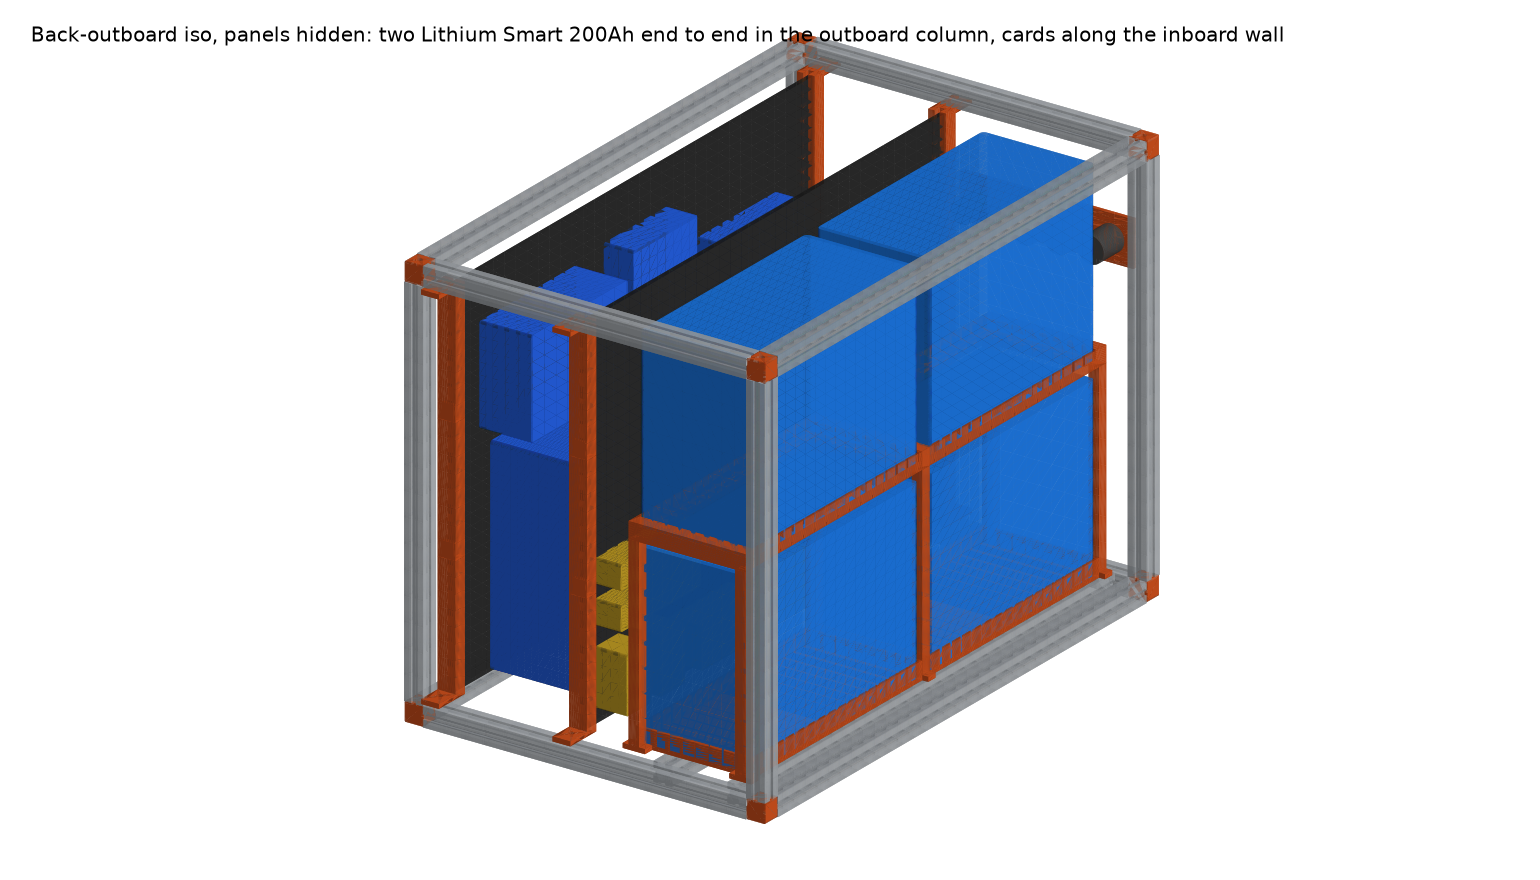
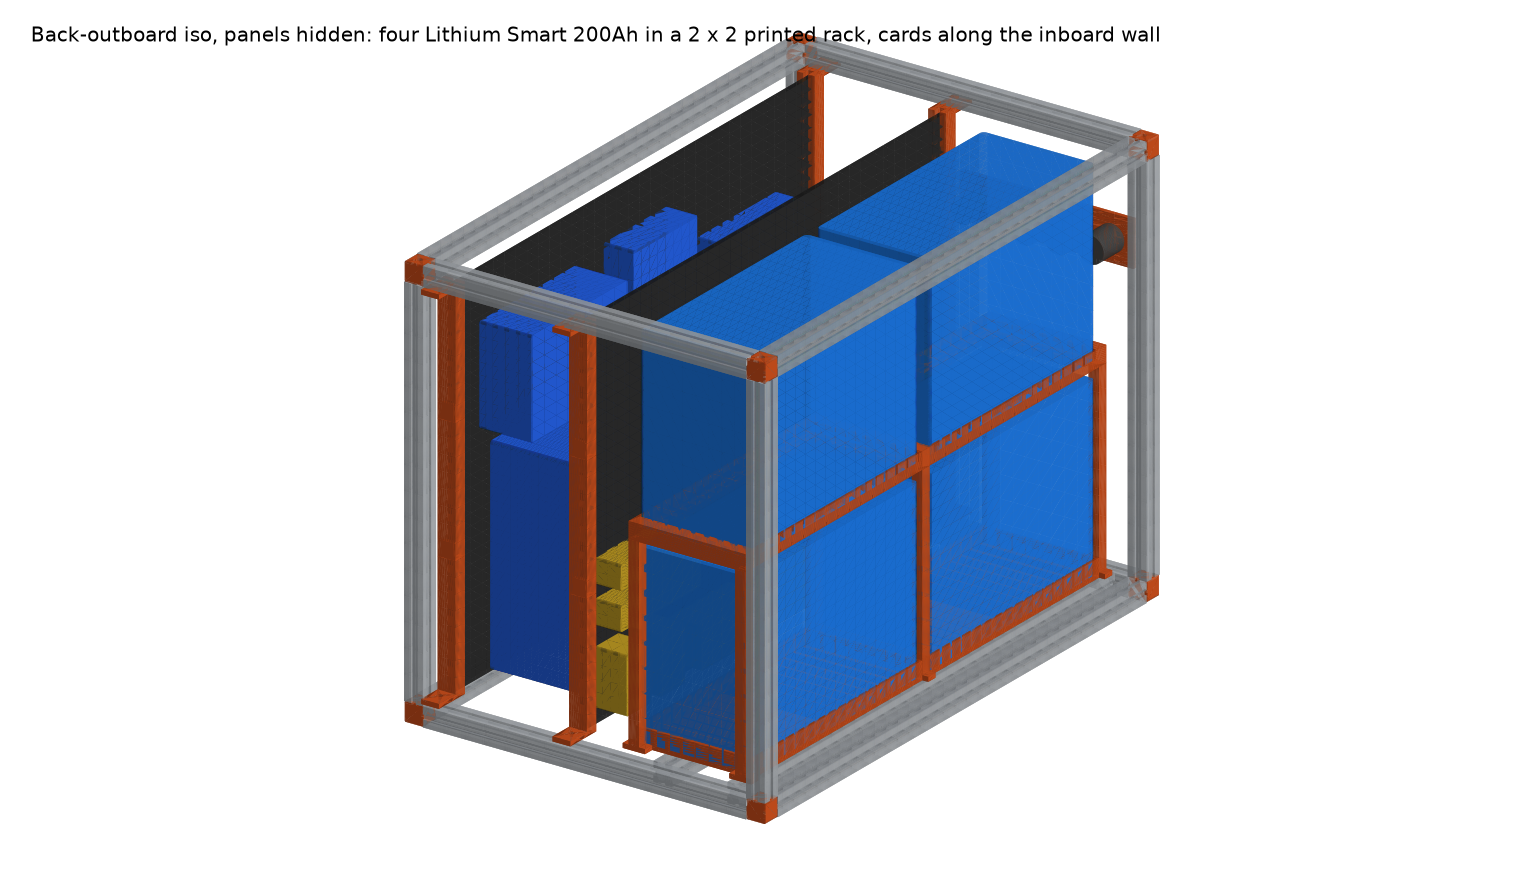
Render titles for the 2x2 variant

Changed region(s): [[0.2494, 0.0307, 0.8416, 0.0614]]

diff --git a/battery-box/cad/render.py b/battery-box/cad/render.py
@@ -100,7 +100,7 @@ if __name__ == "__main__":
                   else "Front-inboard iso, panels hidden: dist card in front, inverter/charger card behind it, batteries at the back"))
     render(asm, os.path.join(d, "iso-back.png"), 24, 215, hide=("lid", "panel", "icebox"),
            title="Back-outboard iso, panels hidden: " + ("three batteries upright, fourth on its long side on the shelf" if cage.P["batt_layout"] == "row3_top1"
-                  else "two Lithium Smart 200Ah end to end in the outboard column, cards along the inboard wall" if cage.P["card_plane"] == "xz" else "two upright stacks of two batteries"))
+                  else ("four Lithium Smart 200Ah in a 2 x 2 printed rack, cards along the inboard wall" if cage.BS["arrange"] == "2x2" else "two Lithium Smart 200Ah end to end in the outboard column, cards along the inboard wall") if cage.P["card_plane"] == "xz" else "two upright stacks of two batteries"))
     render(asm, os.path.join(d, "cards-lifted.png"), 24, 35, hide=("lid", "panel", "icebox"), lift=cage.in_H * 0.8, title="All three cards lifted out the top")
     render(asm, os.path.join(d, "front.png"), 0, 0, hide=("lid", "panel", "icebox"), title="Front elevation, panels hidden")
     render(asm, os.path.join(d, "top.png"), 90, -90, hide=("lid", "icebox"), title="Top-down, lid off: rear layer (left) and cards (right)")
